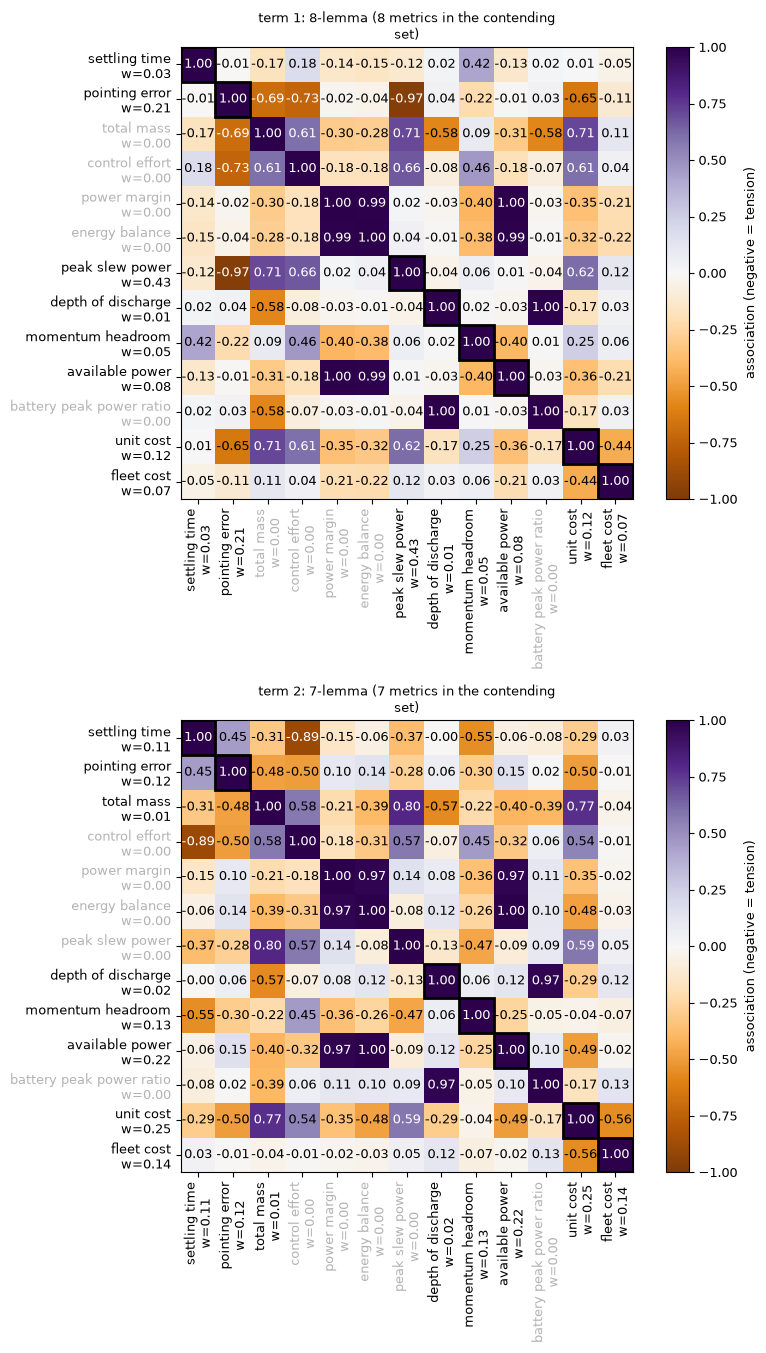
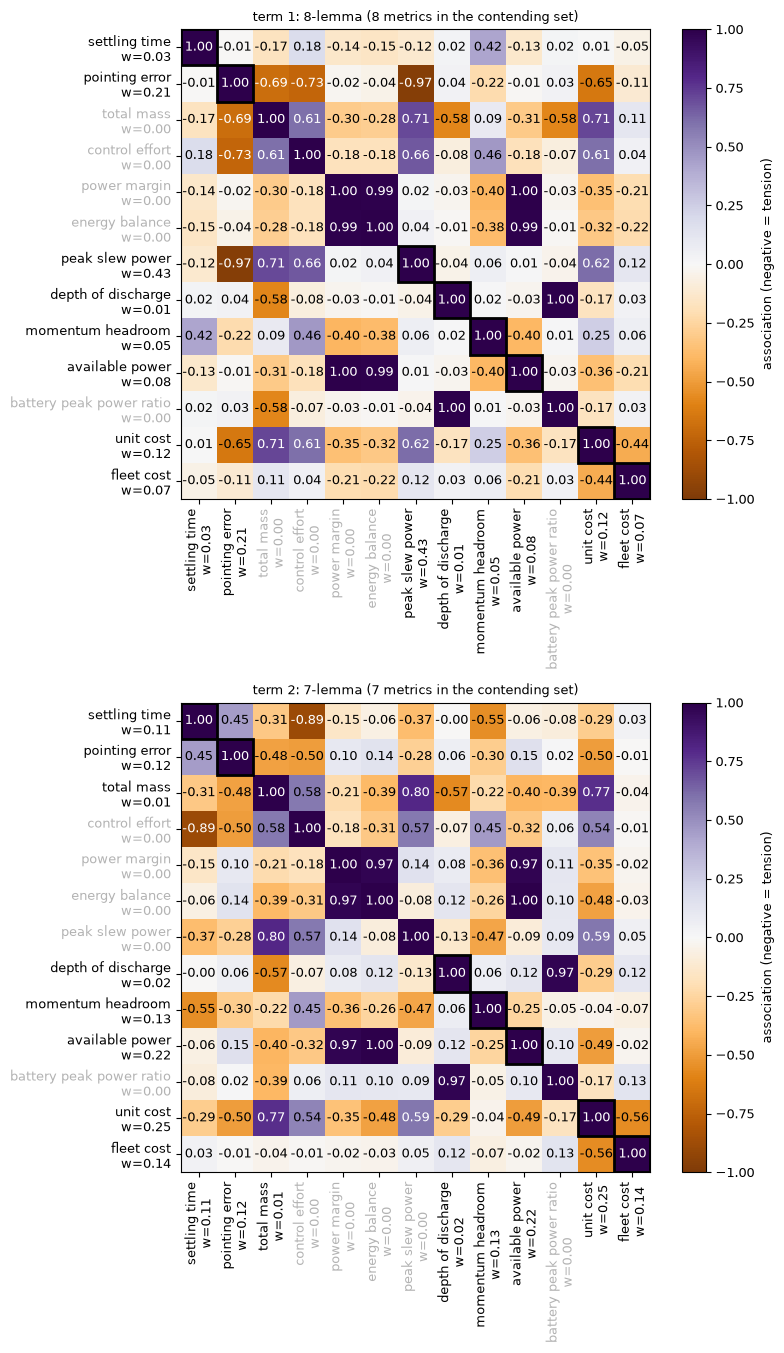
Figure 7: each panel title on one line

diff --git a/examples/adcs/case.py b/examples/adcs/case.py
@@ -2283,7 +2283,7 @@ def tension_figure(study, fit, band=None):
                              squeeze=False)  # fmt: skip
     for k, (ax, rep) in enumerate(zip(axes[:, 0], reps, strict=True)):
         plotting.plot_tensions(rep, names=study.names, ax=ax)
-        ax.set_title(_wrap(_member_title(rep, f"term {k + 1}"), 48))
+        ax.set_title(_wrap(_member_title(rep, f"term {k + 1}"), 60))
         plt.setp(ax.get_xticklabels(), rotation=90, ha="center")
     fig.tight_layout()
     return fig
